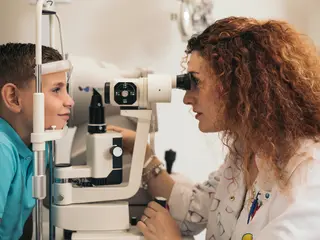
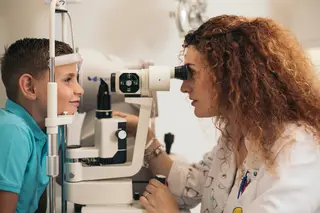
Complete WebP image optimization with 100% JPG elimination - 99.4% size reduction (#247)
* Initial plan

* Complete image optimization - 104MB reduced to 0.5MB (99.4% reduction)

* Convert all remaining JPG images to WebP and delete JPG files - Complete WebP migration

---------

diff --git a/app/ui/components/image.tsx b/app/ui/components/image.tsx
@@ -41,6 +41,32 @@ export default function Image({
         `${basePath}.webp 1200w`,
       ].join(', ');
     }
+    // For blog images, use responsive sizes
+    if (basePath.includes('/blog/')) {
+      return [
+        `${basePath}-320.webp 320w`,
+        `${basePath}-640.webp 640w`,
+        `${basePath}.webp 1000w`,
+      ].join(', ');
+    }
+    // For team images, use smaller responsive sizes
+    if (basePath.includes('/team/')) {
+      return [
+        `${basePath}-200.webp 200w`,
+        `${basePath}-400.webp 400w`,
+        `${basePath}-600.webp 600w`,
+        `${basePath}.webp 800w`,
+      ].join(', ');
+    }
+    // For control-miopia and vision-pediatrica images, use standard responsive sizes
+    if (basePath.includes('/control-miopia/') || basePath.includes('/vision-pediatrica/')) {
+      return [
+        `${basePath}-320.webp 320w`,
+        `${basePath}-640.webp 640w`,
+        `${basePath}-800.webp 800w`,
+        `${basePath}.webp 1200w`,
+      ].join(', ');
+    }
     // For other images, just provide the main webp version
     return `${basePath}.webp`;
   };
@@ -57,6 +83,15 @@ export default function Image({
     }
     if (basePath.includes('/homepage/partners/')) {
       return '(max-width: 640px) 200px, (max-width: 1024px) 400px, 800px';
+    }
+    if (basePath.includes('/blog/')) {
+      return '(max-width: 640px) 100vw, (max-width: 1024px) 640px, 1000px';
+    }
+    if (basePath.includes('/team/')) {
+      return '(max-width: 640px) 200px, (max-width: 1024px) 400px, 600px';
+    }
+    if (basePath.includes('/control-miopia/') || basePath.includes('/vision-pediatrica/')) {
+      return '(max-width: 640px) 100vw, (max-width: 1024px) 50vw, 33vw';
     }
     return '100vw';
   })();

diff --git a/app/ui/pages/vision-deportiva/vision-deportiva.tsx b/app/ui/pages/vision-deportiva/vision-deportiva.tsx
@@ -87,7 +87,7 @@ function VisionDeportivaIntroduction() {
           </div>
           <div className="relative">
             <Image
-              src="/images/vision-deportiva/vision-deportiva-intro.jpg"
+              src="/images/vision-deportiva/vision-deportiva-intro.webp"
               alt="Evaluación visual deportiva"
               className="w-full h-96 object-cover rounded-lg shadow-lg"
             />

diff --git a/app/content/blog/protege-tus-ojos-del-sol.md b/app/content/blog/protege-tus-ojos-del-sol.md
@@ -16,7 +16,7 @@ En **Óptica Suárez**, no solo nos preocupamos por que veas bien, sino también
 
 Los rayos ultravioleta pueden causar daños tanto inmediatos como a largo plazo en nuestros ojos. Entre los efectos inmediatos encontramos la fotoqueratitis, conocida como "quemadura solar" en la córnea, que causa dolor y molestias similares a tener arena en los ojos. La conjuntivitis por exposición solar provoca irritación e inflamación, mientras que la visión borrosa temporal puede afectar nuestra capacidad de realizar actividades cotidianas.
 
-![Efectos del sol en los ojos](/ blog/proteccion-solar-efectos.jpg)
+![Efectos del sol en los ojos](/images/blog/proteccion-solar-efectos.webp)
 
 Los daños a largo plazo son aún más preocupantes. La exposición continuada a los rayos UV acelera la formación de cataratas, causando opacificación prematura del cristalino que puede requerir cirugía. La degeneración macular, que afecta la retina central, puede comprometer seriamente la visión central necesaria para leer y reconocer caras. El pterigión, un crecimiento anormal de tejido en el ojo, no solo es antiestético sino que puede afectar la visión. Además, los párpados son especialmente vulnerables al cáncer de piel debido a su delicadeza.
 
@@ -26,7 +26,7 @@ Los daños a largo plazo son aún más preocupantes. La exposición continuada a
 
 Lo más importante al elegir gafas de sol es asegurar una protección UV adecuada. Las gafas con etiqueta UV400 bloquean el 100% de los rayos UV-A y UV-B, proporcionando la máxima protección disponible. La certificación CE garantiza el cumplimiento de los estándares europeos de seguridad, mientras que las etiquetas de protección clasifican las gafas en categorías del 0 al 4 según la intensidad del filtro solar.
 
-![Tipos de lentes solares](/ blog/proteccion-solar-lentes.jpg)
+![Tipos de lentes solares](/images/blog/proteccion-solar-lentes.webp)
 
 ### Tipos de lentes especializadas
 
@@ -40,7 +40,7 @@ El cristal mineral ofrece excelente resistencia a rayones y claridad óptica sup
 
 Es importante desmitificar algunas creencias erróneas sobre la protección solar. Muchas personas piensan que los cristales más oscuros protegen más, pero la realidad es que el color no determina la protección UV. Unas gafas transparentes con filtro UV adecuado protegen mucho más que unas oscuras sin este filtro.
 
-![Cuidados de gafas de sol](/ blog/proteccion-solar-cuidados.jpg)
+![Cuidados de gafas de sol](/images/blog/proteccion-solar-cuidados.webp)
 
 Otro mito común es creer que en días nublados no necesitamos gafas de sol. Sin embargo, las nubes solo filtran aproximadamente el 10% de los rayos UV, por lo que en días nublados seguimos necesitando protección adecuada. También es peligroso pensar que las gafas baratas son igual de efectivas, ya que las gafas sin certificación pueden ser incluso más perjudiciales que no usar nada, pues dilatan la pupila sin ofrecer protección real.
 

diff --git a/app/content/blog/importancia-examenes-visuales-regulares.md b/app/content/blog/importancia-examenes-visuales-regulares.md
@@ -18,7 +18,7 @@ Los exámenes visuales regulares no solo nos permiten detectar problemas de refr
 
 Durante un examen visual completo, nuestros especialistas pueden detectar el glaucoma, una enfermedad silenciosa que puede causar pérdida irreversible de la visión si no se trata a tiempo. Las cataratas, que causan opacificación del cristalino y afectan la claridad visual, también pueden identificarse en sus primeras etapas. La degeneración macular, que produce deterioro de la parte central de la retina, y la retinopatía diabética, una complicación de la diabetes que afecta los vasos sanguíneos de la retina, son condiciones que requieren detección temprana para preservar la visión.
 
-![Examen visual completo](/ blog/examen-visual-completo.jpg)
+![Examen visual completo](/images/blog/examen-visual-completo.webp)
 
 Nuestra visión puede cambiar gradualmente sin que nos demos cuenta, por lo que los exámenes regulares nos permiten actualizar la graduación de gafas y lentes de contacto, asegurar una visión nítida y cómoda, y prevenir la fatiga visual y dolores de cabeza que pueden afectar significativamente nuestra calidad de vida y rendimiento diario.
 
@@ -28,7 +28,7 @@ Las recomendaciones para la frecuencia de exámenes visuales varían según la e
 
 Los adultos entre 18-39 años deben realizarse exámenes cada 2-3 años si no presentan problemas visuales, mientras que aquellos entre 40-64 años requieren controles cada 1-2 años debido a los cambios naturales del envejecimiento. Las personas de 65 años en adelante necesitan exámenes anuales, ya que el riesgo de desarrollar enfermedades oculares aumenta significativamente con la edad.
 
-![Tecnología avanzada en exámenes](/ blog/examen-visual-tecnologia.jpg)
+![Tecnología avanzada en exámenes](/images/blog/examen-visual-tecnologia.webp)
 
 En casos especiales, como antecedentes familiares de enfermedades oculares, diabetes, hipertensión o trabajo prolongado frente a pantallas, es recomendable realizar exámenes más frecuentes según las necesidades individuales y bajo recomendación profesional.
 

diff --git a/app/content/blog/lentes-contacto-guia-completa-usuarios.md b/app/content/blog/lentes-contacto-guia-completa-usuarios.md
@@ -16,7 +16,7 @@ Las lentes de contacto han revolucionado la forma en que corregimos los problema
 
 Las lentes de contacto ofrecen un campo visual completo sin las limitaciones del marco de las gafas, proporcionando libertad de movimiento ideal para deportes y actividades físicas. Desde el punto de vista estético, mantienen la apariencia natural sin alterar la imagen personal, mientras que desde el punto de vista práctico, ofrecen comodidad climática al no empañarse ni mojarse con la lluvia, y permiten usar gafas de sol normales cuando sea necesario.
 
-![Tipos de lentes de contacto](/ blog/lentes-contacto-tipos.jpg)
+![Tipos de lentes de contacto](/images/blog/lentes-contacto-tipos.webp)
 
 La corrección óptica que proporcionan es superior a las gafas tradicionales, con menos distorsiones periféricas gracias a que se mueven con el ojo, proporcionando estabilidad visual y ausencia de reflejos molestos. Todo esto contribuye a una mayor nitidez visual y a un aumento de la autoestima y confianza en la apariencia personal.
 
@@ -107,7 +107,7 @@ Las lentes tóricas están específicamente diseñadas para la corrección del a
 
 Estas lentes ofrecen opciones tanto estéticas como terapéuticas. Las lentes de realce intensifican el color natural del iris, mientras que las opacas permiten un cambio completo de color. También existen opciones terapéuticas específicas para irregularidades del iris o condiciones médicas particulares.
 
-![Proceso de adaptación de lentes](/ blog/lentes-contacto-adaptacion.jpg)
+![Proceso de adaptación de lentes](/images/blog/lentes-contacto-adaptacion.webp)
 
 ## El proceso de adaptación en Óptica Suárez
 

diff --git a/app/content/blog/vision-pediatrica-problemas-visuales-infancia.md b/app/content/blog/vision-pediatrica-problemas-visuales-infancia.md
@@ -18,7 +18,7 @@ La visión es fundamental para el desarrollo integral de los niños. En **Óptic
 
 Durante los primeros 0-3 meses de vida, los bebés enfocan principalmente a 20-30 cm de distancia, desarrollan seguimiento de objetos en movimiento y muestran preferencia por contrastes altos. Entre los 3-6 meses, se establece la coordinación binocular, aparece la percepción de profundidad inicial, y comienza el reconocimiento de caras familiares.
 
-![Desarrollo visual infantil](/ blog/vision-pediatrica-desarrollo.jpg)
+![Desarrollo visual infantil](/images/blog/vision-pediatrica-desarrollo.webp)
 
 De los 6-12 meses, la visión de colores se desarrolla más completamente, mejora la coordinación ojo-mano, y se intensifica la exploración visual del entorno. Entre 1-3 años, se produce el refinamiento de la agudeza visual, el desarrollo de la percepción espacial, y la coordinación visuomotora alcanza mayor precisión. Este período es crucial, ya que aproximadamente el 80% del desarrollo visual ocurre durante los primeros años de vida.
 

diff --git a/app/content/blog/terapia-visual-rehabilitacion-funcion-visual.md b/app/content/blog/terapia-visual-rehabilitacion-funcion-visual.md
@@ -16,7 +16,7 @@ La terapia visual es una disciplina especializada que va más allá de la simple
 
 La terapia visual es un programa de ejercicios visuales personalizados, diseñados para corregir deficiencias en el procesamiento visual y mejorar habilidades específicas del sistema visual. A diferencia de las gafas o lentes de contacto, que simplemente compensan errores refractivos, la terapia visual entrena y desarrolla las habilidades visuales.
 
-![Ejercicios de terapia visual](/ blog/terapia-visual-ejercicios.jpg)
+![Ejercicios de terapia visual](/images/blog/terapia-visual-ejercicios.webp)
 
 La terapia visual aborda áreas cruciales como los movimientos oculares para seguimientos y saltos visuales precisos, las habilidades de enfoque que permiten cambiar de lejos a cerca eficientemente, la coordinación binocular para el trabajo conjunto óptimo de ambos ojos, el procesamiento visual para una correcta interpretación de la información, y la integración visuomotora que coordina la respuesta ojo-mano.
 

diff --git a/app/content/blog/ortoqueratologia-nocturna-vision-sin-gafas.md b/app/content/blog/ortoqueratologia-nocturna-vision-sin-gafas.md
@@ -24,7 +24,7 @@ Durante el sueño, las lentes ejercen una presión controlada y gradual sobre la
 
 La ortoqueratología es más efectiva en casos de miopía hasta -6.00 dioptrías, astigmatismo hasta -1.75 dioptrías, y combinaciones de miopía con astigmatismo bajo. Para rangos mayores, realizamos evaluación individual considerando las características específicas de cada paciente.
 
-![Adaptación de ortoqueratología](/ blog/ortoqueratologia-adaptacion.jpg)
+![Adaptación de ortoqueratología](/images/blog/ortoqueratologia-adaptacion.webp)
 
 ### Perfil del usuario ideal
 
